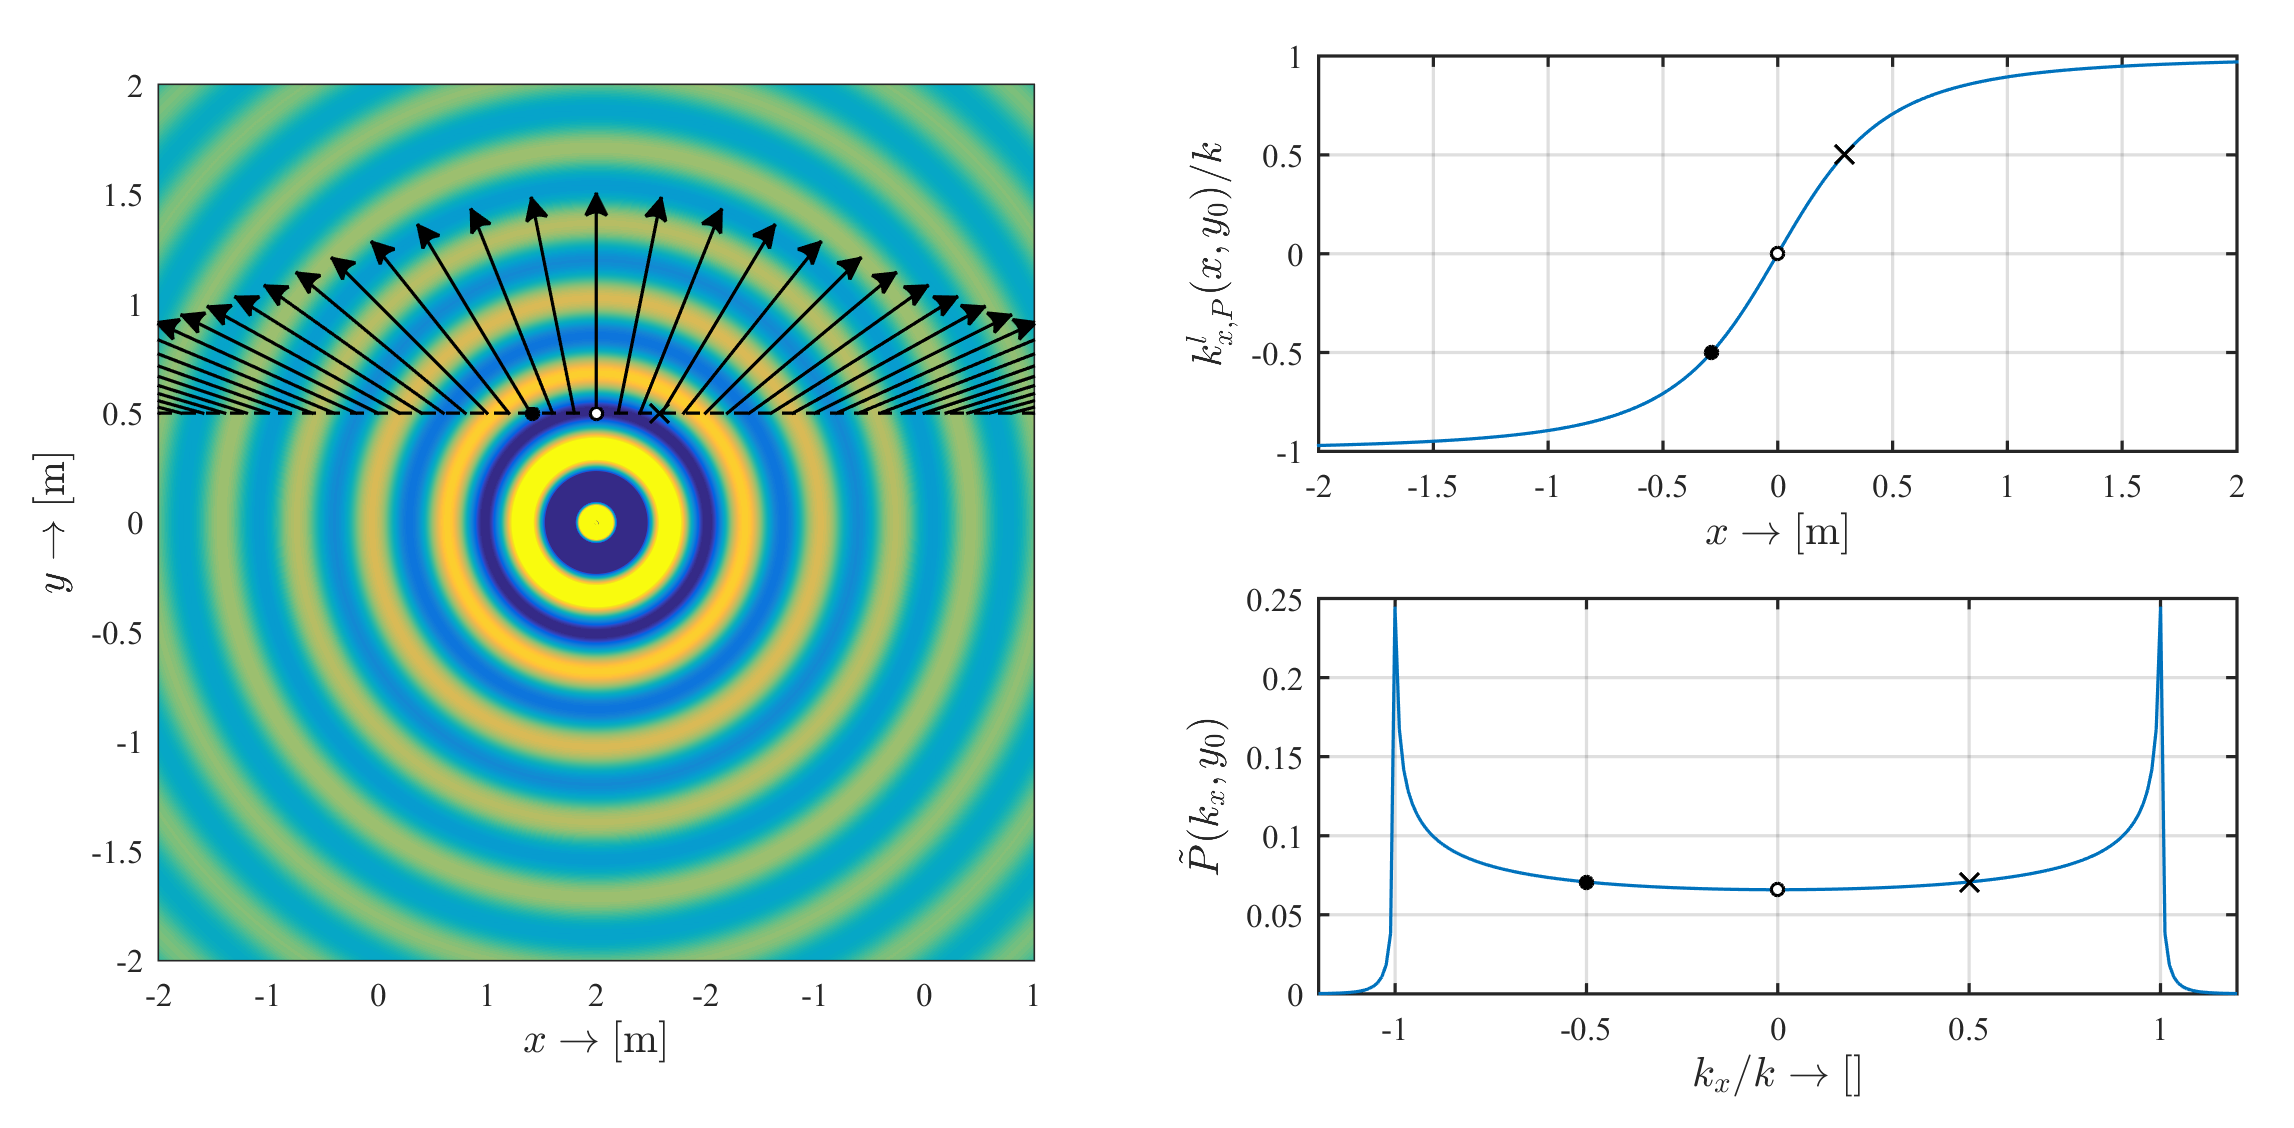
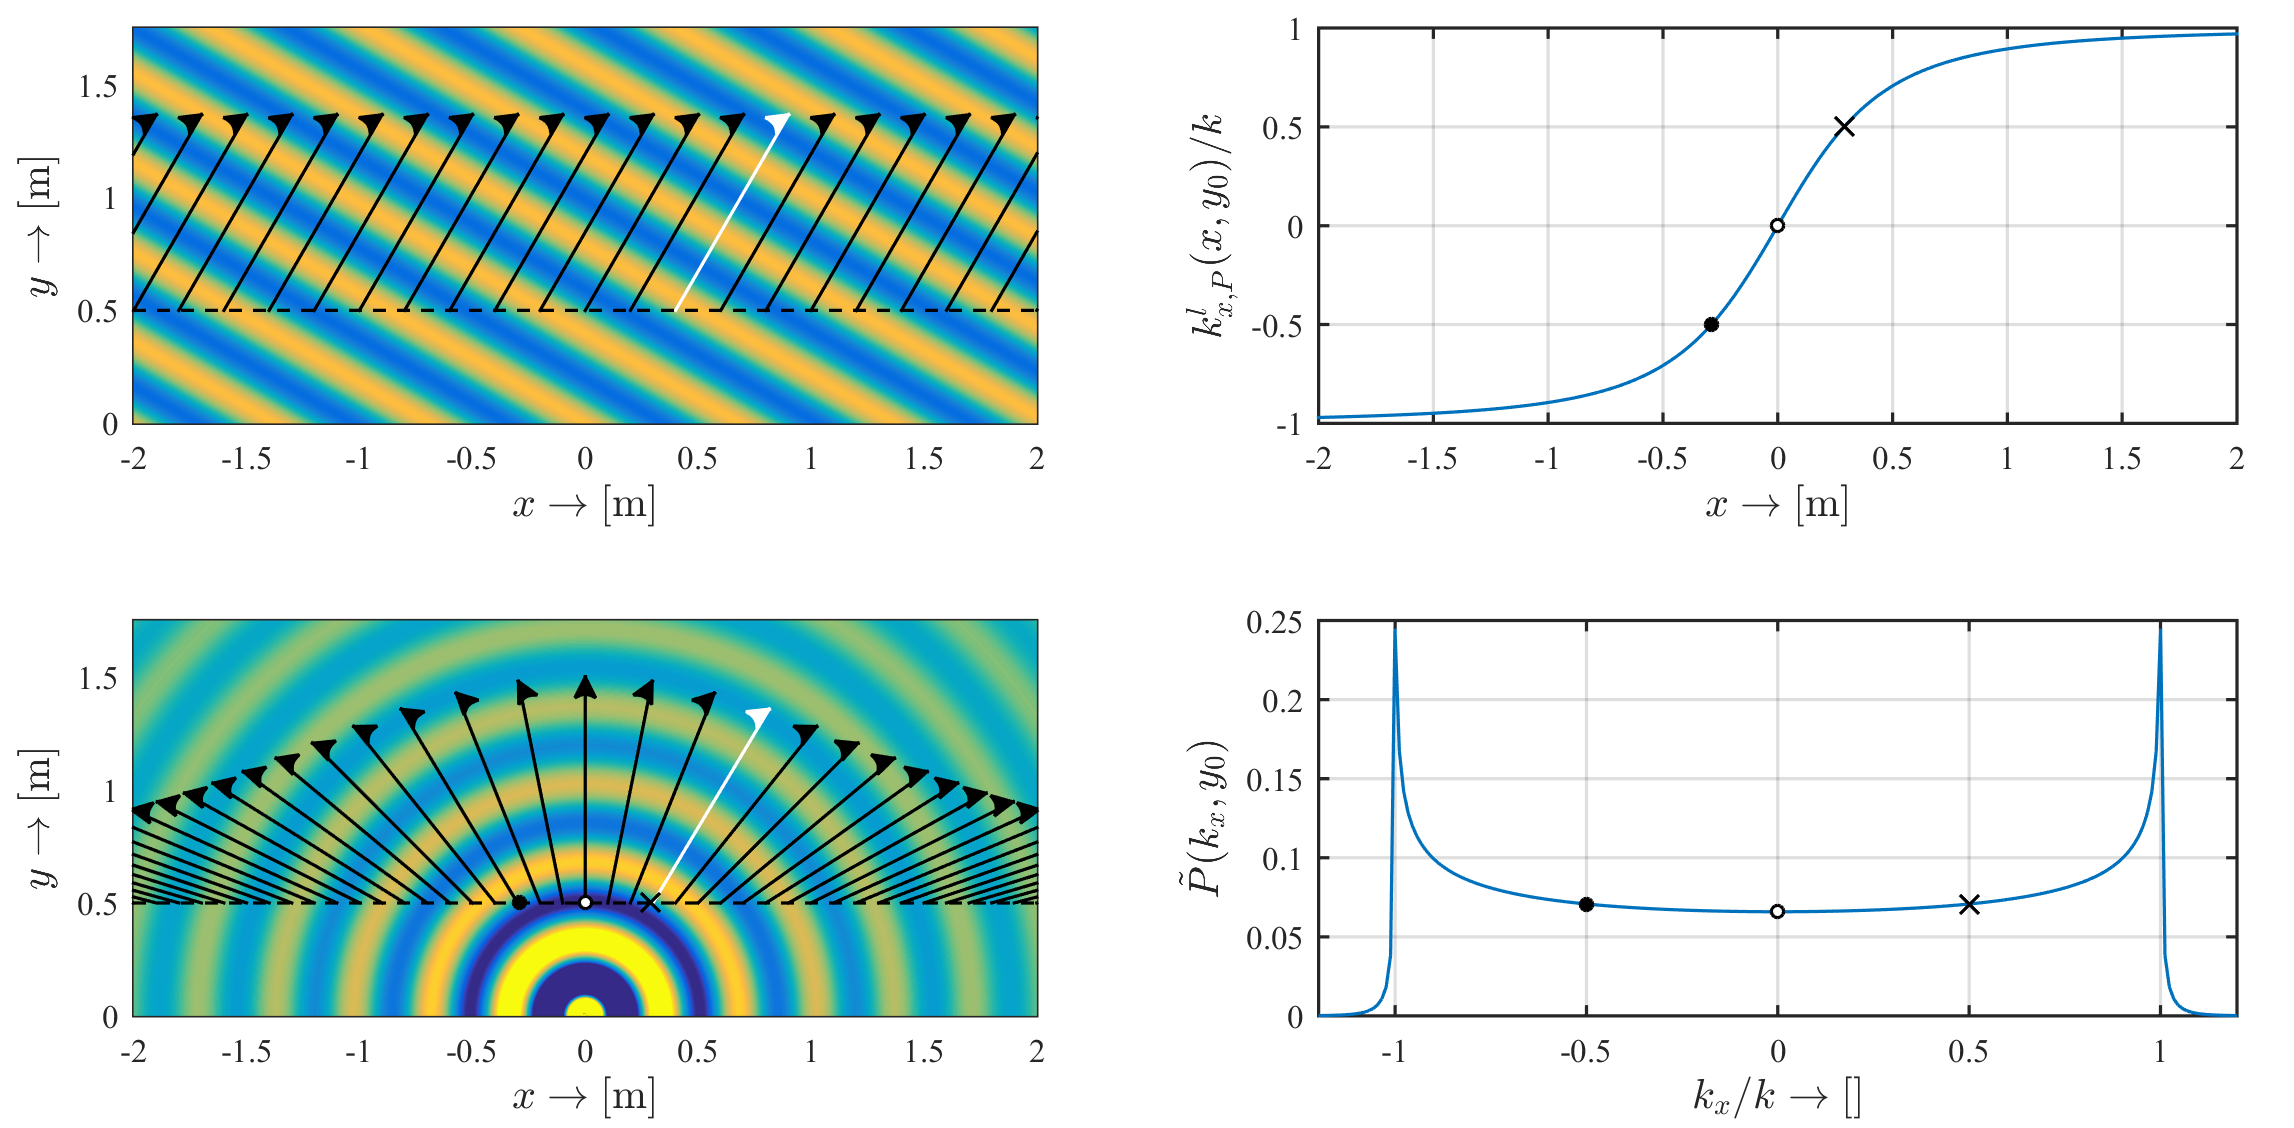
.

diff --git a/LatexProject/2_5D_WFS.tex b/LatexProject/2_5D_WFS.tex
@@ -211,7 +211,14 @@ with $\tilde{P}(k_x,y,k_z,\omega) =\tilde{A}(k_x,y,k_z,\omega)\te^{\ti \tilde{\p
 %	\put(0,0){c)}
 %	\put(50,0){d)}
 	\end{overpic}
-	\caption{Illustration of the stationary phase approximation of the Fourier transform in case of a 3D point source at $\vxs = \posvec{3}{0}{0}{0}$ with its one-dimensional Fourier-transform evaluated along $y = 0.5 ~ \mathrm{m}$. The spectrum is given by the Hankel function, recalling table  \ref{tab:theory:Greens_fun_representations}. Due to the spherical symmetry in the plane of investigation the wavenumber vector equals to that of a 2D point source, presented in Figure \ref{Fig:Theory:general_sfs_geometry}. In (b) and (c) corresponding symbols denote stationary point pairs in the spectral components and the local waveunumber components. It is noted here, that in this case, for a given wavenumber component the corresponding stationary position can be found explicitly, and the SPA of the Fourier transform can be evaluated analytically. The result is given by the well-known large argument/asymptotic approximation of the Hankel function \cite[p. 121]{Williams1999} (hence the terminology).}
+	\caption{Illustration of the stationary phase approximation of the Fourier transform in case of a 3D point source at $\vxs = \posvec{3}{0}{0}{0}$ with its one-dimensional Fourier-transform evaluated along $y = 0.5 ~ \mathrm{m}$. 
+Due to the spherical symmetry in the plane of investigation the wavenumber vector, shown in Figure (b) equals to that of a 2D point source, presented in Figure \ref{Fig:Theory:general_sfs_geometry}. 
+Figure (a) presents a spectral basis function (i.e. a plane wave) at $k_x = 0.5 k$. 
+For this spectral component the stationary phase point at the field of the point source is found, where the local propagation direction of the point source coincides with that of the plane wave---indicated by white arrow---.
+The spectrum, shown in Figure (d), therefore will be dominated by this part of space at $k_x = 0.5k$. 
+In (c) and (d) corresponding symbols denote further stationary point pair examples in the spectral components and the local waveunumber components. 
+It is noted here, that in this case, for a given wavenumber component the corresponding stationary position can be found explicitly, and the SPA of the Fourier transform can be evaluated analytically. 
+The result is given by the well-known large argument/asymptotic approximation of the Hankel function \cite[p. 121]{Williams1999} (hence the terminology).}
 	\label{Fig:Theory:stat_pos_in_kx}
 \end{figure}
 
